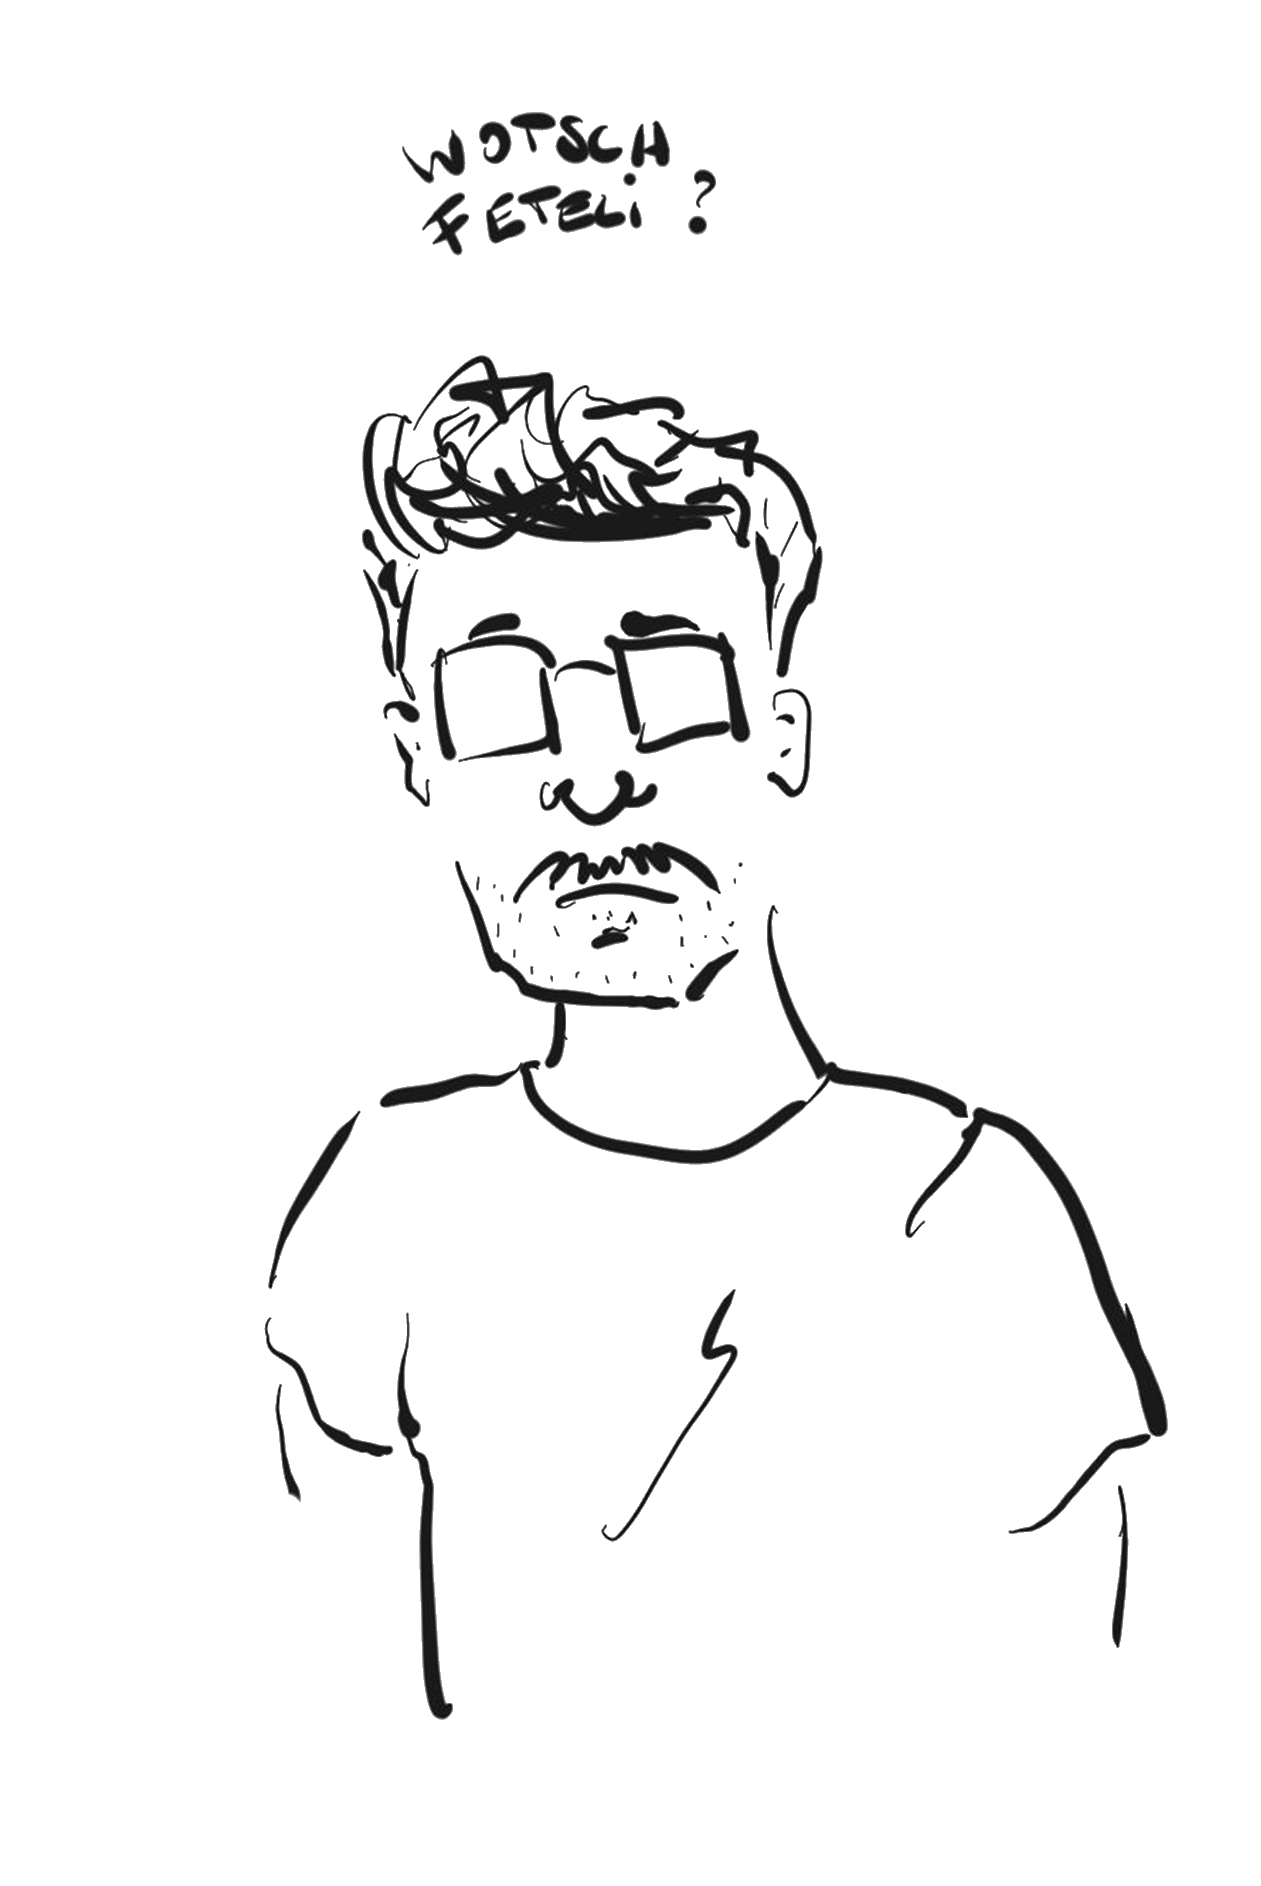
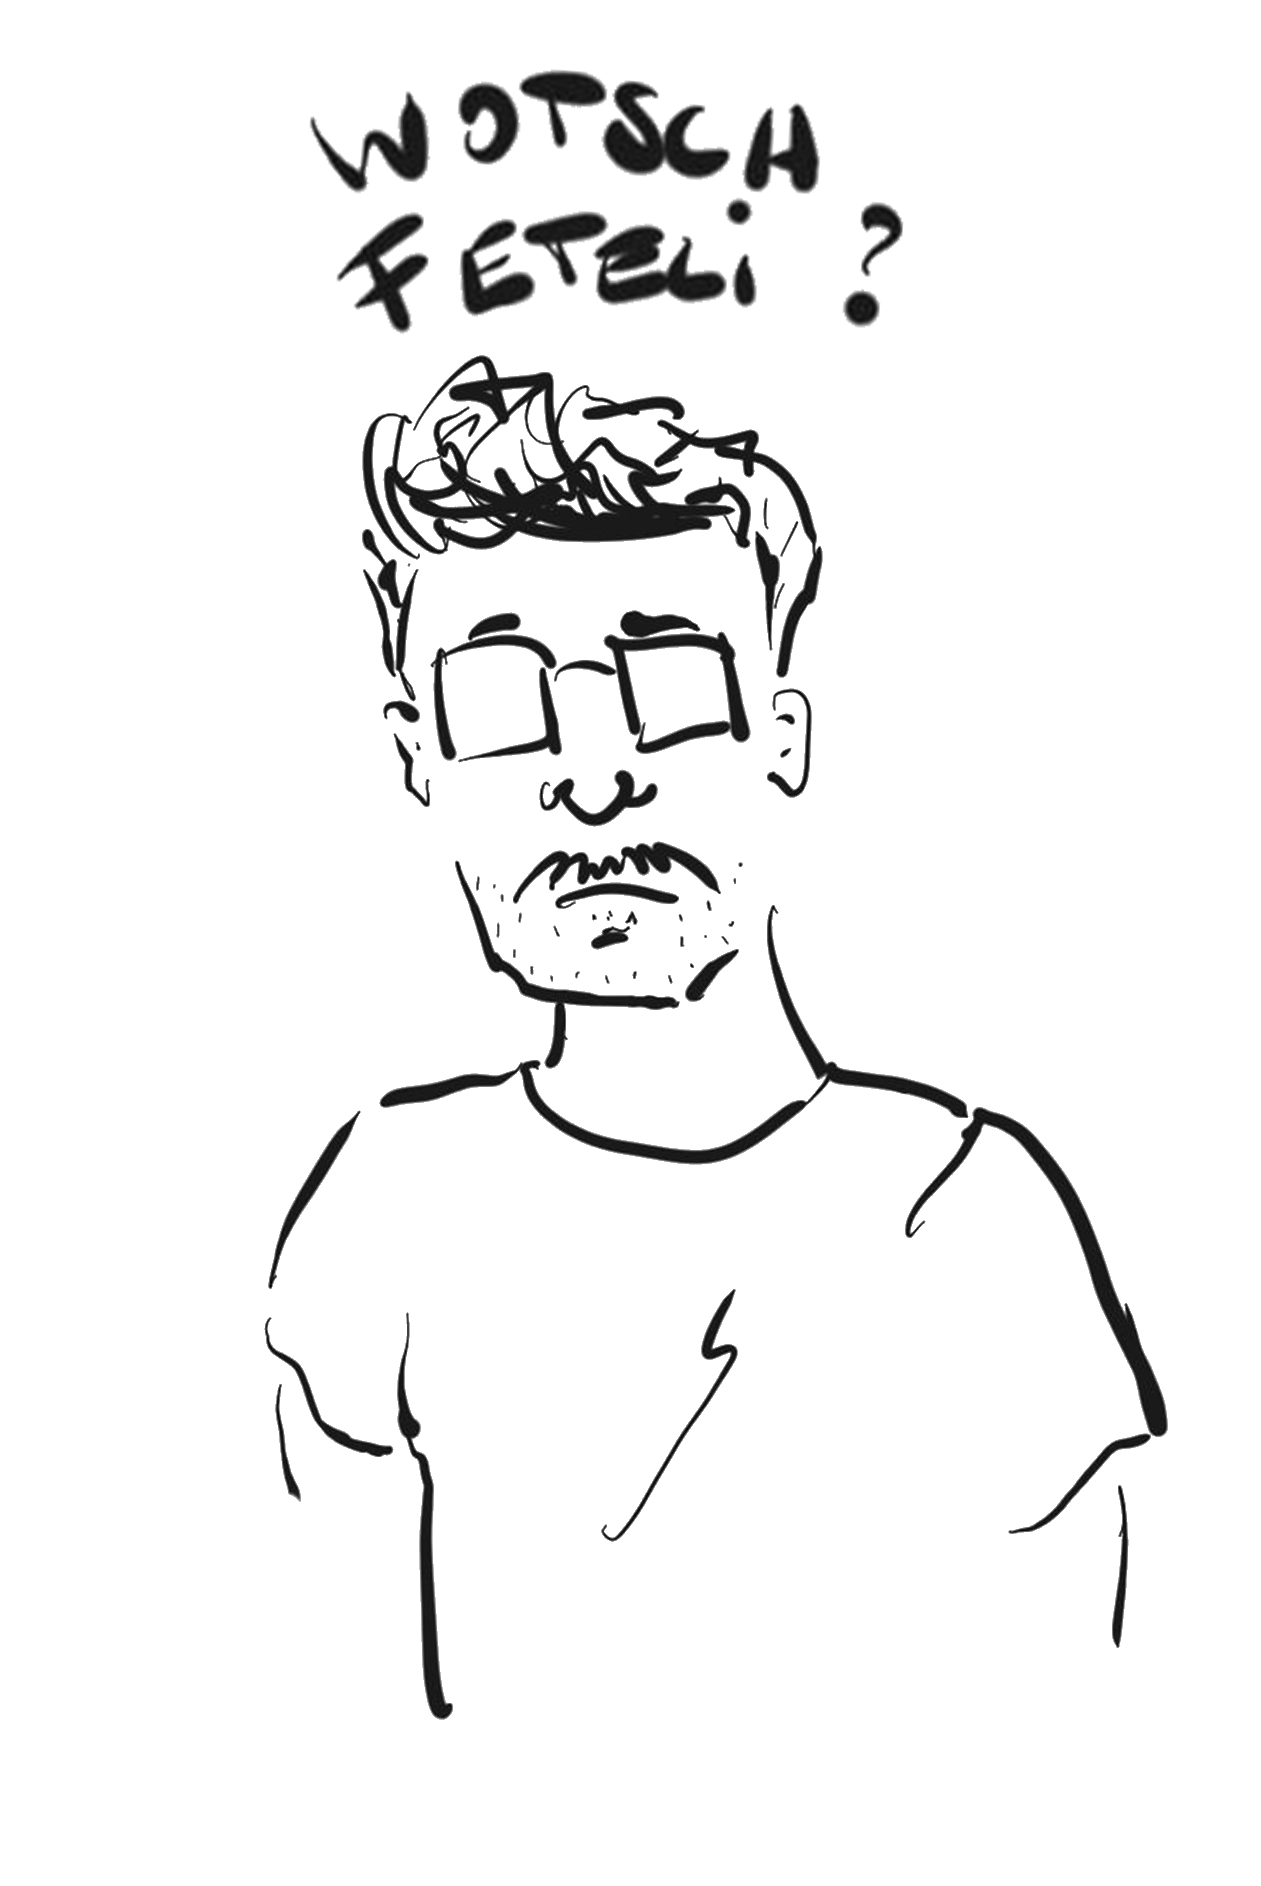
grösse bild text geändert

Changed region(s): [[0.2474, 0.0308, 0.6495, 0.1845], [0.6495, 0.0923, 0.7113, 0.1845]]

diff --git a/style/stylenoel.css b/style/stylenoel.css
@@ -182,7 +182,7 @@ height: 85vh;
 .hintergrund {
     /*width: 100%;*/
     background-size: cover;
-    background-image: url(Bilder/Hintergrund.jpg);
+    background-image: url(...Bilder/Hintergrund.jpg);
     display: flex;
     flex-direction: row;
     justify-content: center;
